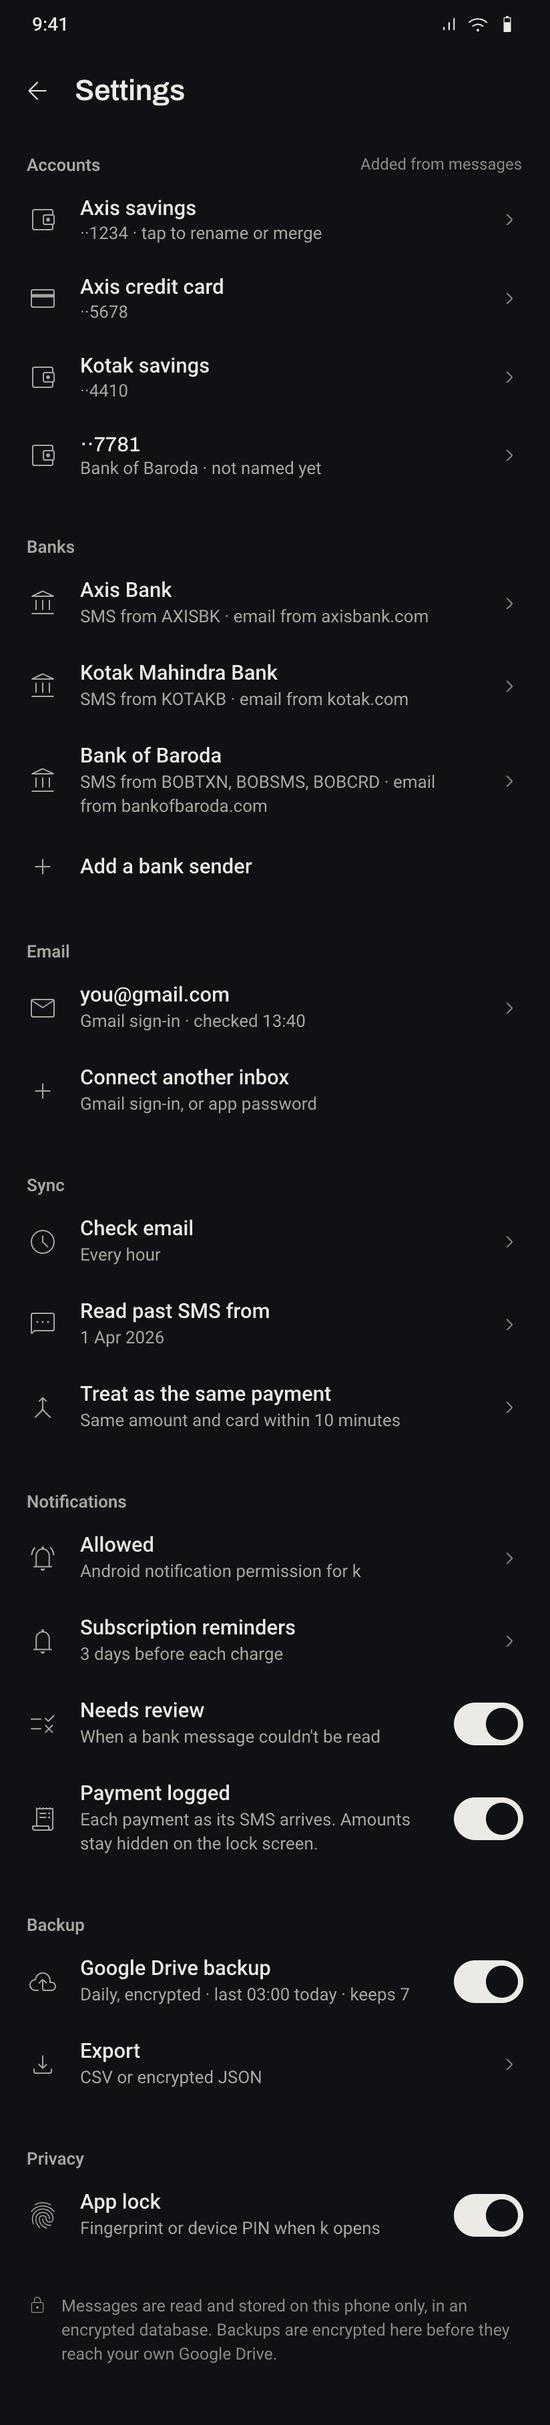
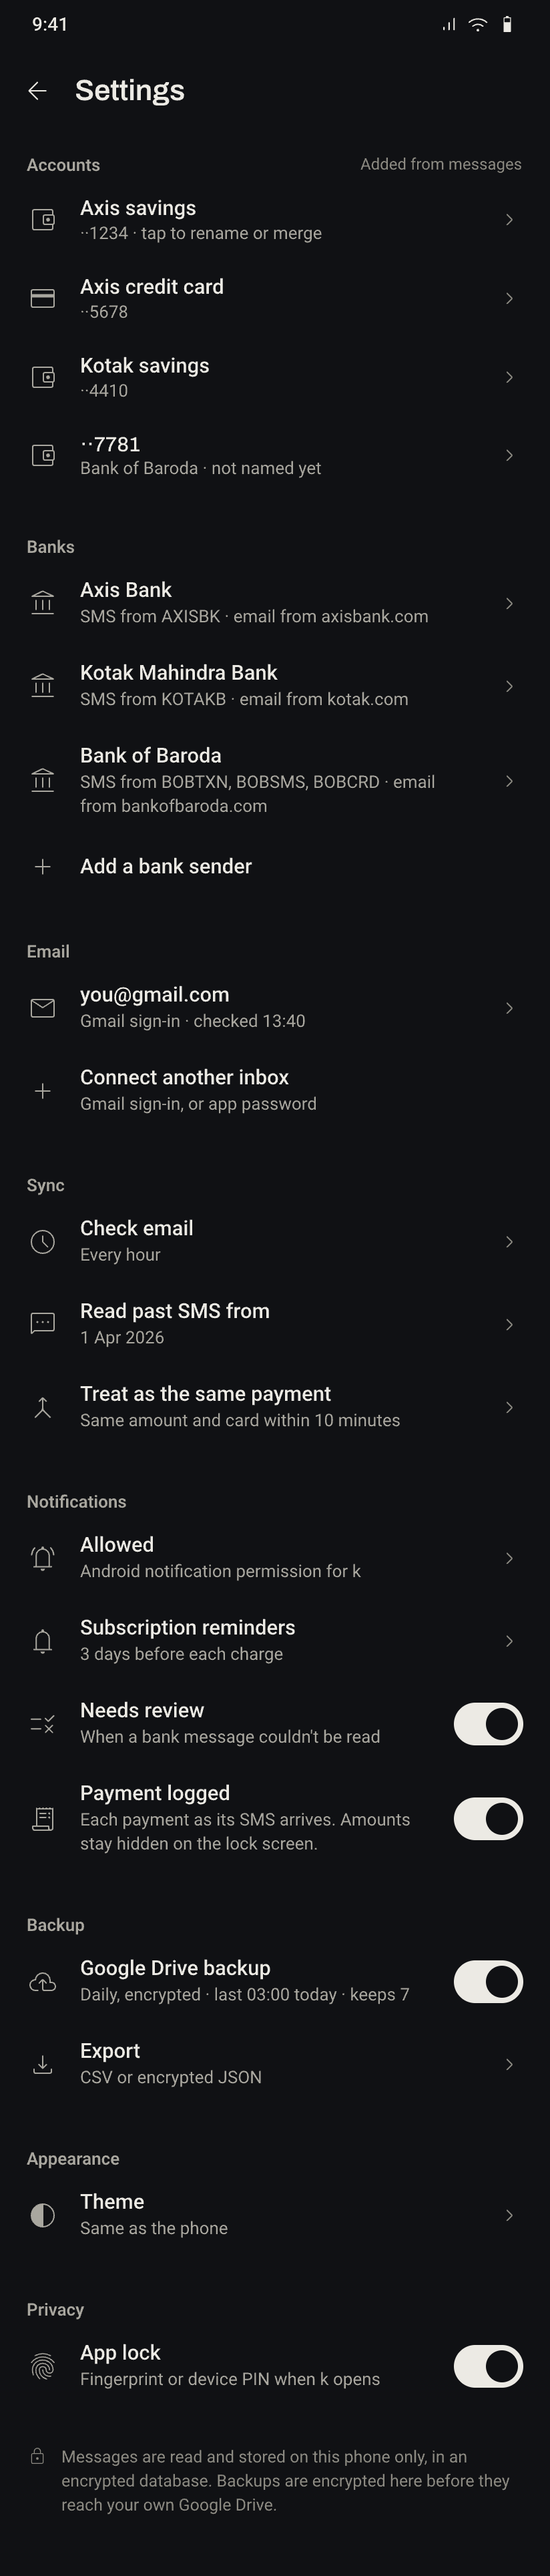
Settings → Appearance: theme follows the phone, or always light/dark

diff --git a/lib/ui/screens/settings/appearance_settings.dart b/lib/ui/screens/settings/appearance_settings.dart
@@ -1,0 +1,77 @@
+import 'package:flutter/material.dart';
+
+import '../../../data/repositories/settings_repository.dart';
+import '../../../di.dart';
+import '../../theme/k_theme.dart';
+import 'settings_parts.dart';
+
+/// Settings → Appearance (design 06): follow the phone, or always light or
+/// dark. Device-local, applied app-wide by `KApp`.
+class AppearanceSettings extends StatelessWidget {
+  const AppearanceSettings({super.key});
+
+  static const _labels = {
+    ThemeMode.system: 'Same as the phone',
+    ThemeMode.light: 'Light',
+    ThemeMode.dark: 'Dark',
+  };
+
+  @override
+  Widget build(BuildContext context) {
+    final settings = getIt<SettingsRepository>();
+    final c = context.k;
+    return StreamBuilder<String?>(
+      stream: settings.watch(SettingsRepository.themeMode),
+      builder: (context, snap) {
+        final mode =
+            ThemeMode.values.asNameMap()[snap.data] ?? ThemeMode.system;
+        return Column(
+          crossAxisAlignment: CrossAxisAlignment.start,
+          children: [
+            const SettingsHead('Appearance'),
+            SettingsItem(
+              icon: Icons.contrast_rounded,
+              title: 'Theme',
+              subtitle: _labels[mode]!,
+              trailing: Icon(
+                Icons.chevron_right_rounded,
+                size: 20,
+                color: c.text3,
+              ),
+              onTap: () async {
+                final picked = await showModalBottomSheet<ThemeMode>(
+                  context: context,
+                  builder: (context) => SafeArea(
+                    child: Column(
+                      mainAxisSize: MainAxisSize.min,
+                      children: [
+                        Padding(
+                          padding: const EdgeInsets.fromLTRB(16, 4, 16, 8),
+                          child: Align(
+                            alignment: Alignment.centerLeft,
+                            child: Text('Theme', style: context.kt.title),
+                          ),
+                        ),
+                        for (final m in _labels.keys)
+                          ListTile(
+                            title: Text(_labels[m]!),
+                            trailing: m == mode
+                                ? const Icon(Icons.check_rounded)
+                                : null,
+                            onTap: () => Navigator.pop(context, m),
+                          ),
+                      ],
+                    ),
+                  ),
+                );
+                if (picked != null) {
+                  await settings.set(SettingsRepository.themeMode, picked.name);
+                }
+              },
+            ),
+          ],
+        );
+      },
+    );
+  }
+}

diff --git a/lib/app/app.dart b/lib/app/app.dart
@@ -15,9 +15,12 @@ import 'notifications.dart';
 import 'sms_controller.dart';
 
 class KApp extends StatefulWidget {
-  const KApp({super.key, required this.onboarded});
+  const KApp({super.key, required this.onboarded, this.theme});
 
   final bool onboarded;
+
+  /// Saved theme mode name, read before the first frame (no flash).
+  final String? theme;
 
   @override
   State<KApp> createState() => _KAppState();
@@ -43,18 +46,23 @@ class _KAppState extends State<KApp> {
   }
 
   @override
-  Widget build(BuildContext context) => MaterialApp(
-    title: 'k',
-    debugShowCheckedModeBanner: false,
-    theme: buildTheme(Brightness.light),
-    darkTheme: buildTheme(Brightness.dark),
-    home: _onboarded
-        ? HomeShell(sms: _sms)
-        : OnboardingScreen(
-            onDone: () {
-              setState(() => _onboarded = true);
-              _sms.refresh();
-            },
-          ),
+  Widget build(BuildContext context) => StreamBuilder<String?>(
+    stream: getIt<SettingsRepository>().watch(SettingsRepository.themeMode),
+    initialData: widget.theme,
+    builder: (context, snap) => MaterialApp(
+      title: 'k',
+      debugShowCheckedModeBanner: false,
+      theme: buildTheme(Brightness.light),
+      darkTheme: buildTheme(Brightness.dark),
+      themeMode: ThemeMode.values.asNameMap()[snap.data] ?? ThemeMode.system,
+      home: _onboarded
+          ? HomeShell(sms: _sms)
+          : OnboardingScreen(
+              onDone: () {
+                setState(() => _onboarded = true);
+                _sms.refresh();
+              },
+            ),
+    ),
   );
 }

diff --git a/lib/ui/screens/settings/settings_screen.dart b/lib/ui/screens/settings/settings_screen.dart
@@ -10,6 +10,7 @@ import '../../widgets/common.dart';
 import '../../widgets/date_pick.dart';
 import '../../../data/review/learned_formats.dart';
 import '../review/learned_formats_screen.dart';
+import 'appearance_settings.dart';
 import 'email_settings.dart';
 import 'notification_settings.dart';
 
@@ -189,6 +190,7 @@ class _SettingsScreenState extends State<SettingsScreen> {
           // Design 06 items run edge to edge.
           const EmailSettings(),
           const NotificationSettings(),
+          const AppearanceSettings(),
           Padding(
             padding: const EdgeInsets.symmetric(horizontal: 16),
             child: Column(

diff --git a/lib/main.dart b/lib/main.dart
@@ -23,7 +23,10 @@ Future<void> main() async {
   final onboarded = await getIt<SettingsRepository>().getBool(
     SettingsRepository.onboardingDone,
   );
-  runApp(KApp(onboarded: onboarded));
+  final theme = await getIt<SettingsRepository>().get(
+    SettingsRepository.themeMode,
+  );
+  runApp(KApp(onboarded: onboarded, theme: theme));
 }
 
 /// Headless entrypoint run by the native `SmsProcessWorker` when an SMS

diff --git a/lib/data/repositories/settings_repository.dart b/lib/data/repositories/settings_repository.dart
@@ -13,6 +13,9 @@ class SettingsRepository {
   static const smsLastSyncAt = 'device.sms.lastSyncAt';
   static const onboardingDone = 'device.onboarding.done';
 
+  /// `system` (default), `light` or `dark`.
+  static const themeMode = 'device.theme';
+
   Future<String?> get(String key) async => (await (_db.select(
     _db.appSettings,
   )..where((s) => s.key.equals(key))).getSingleOrNull())?.value;
